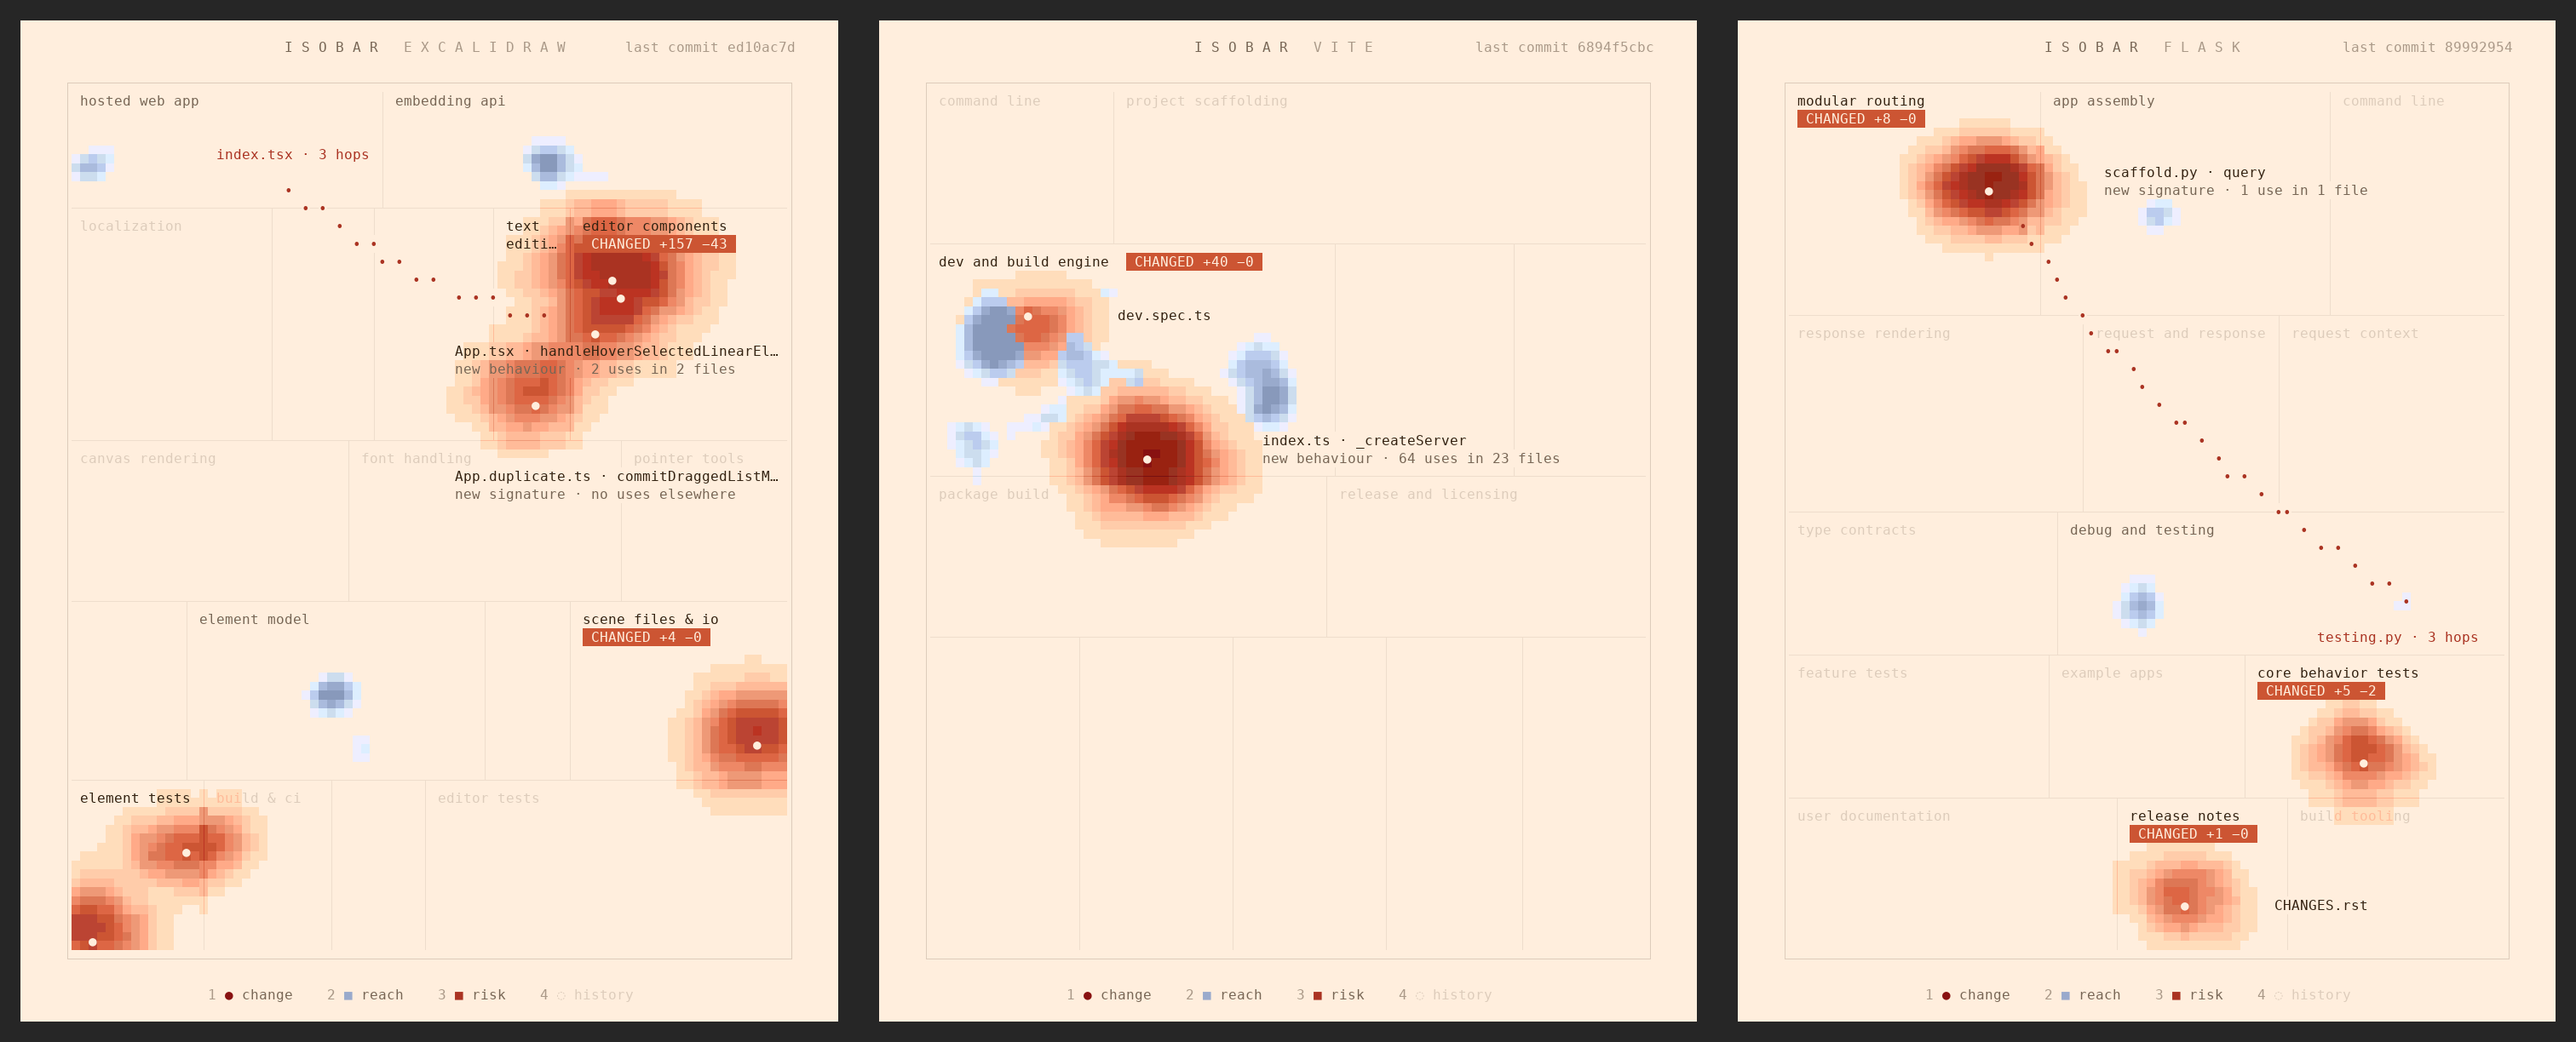
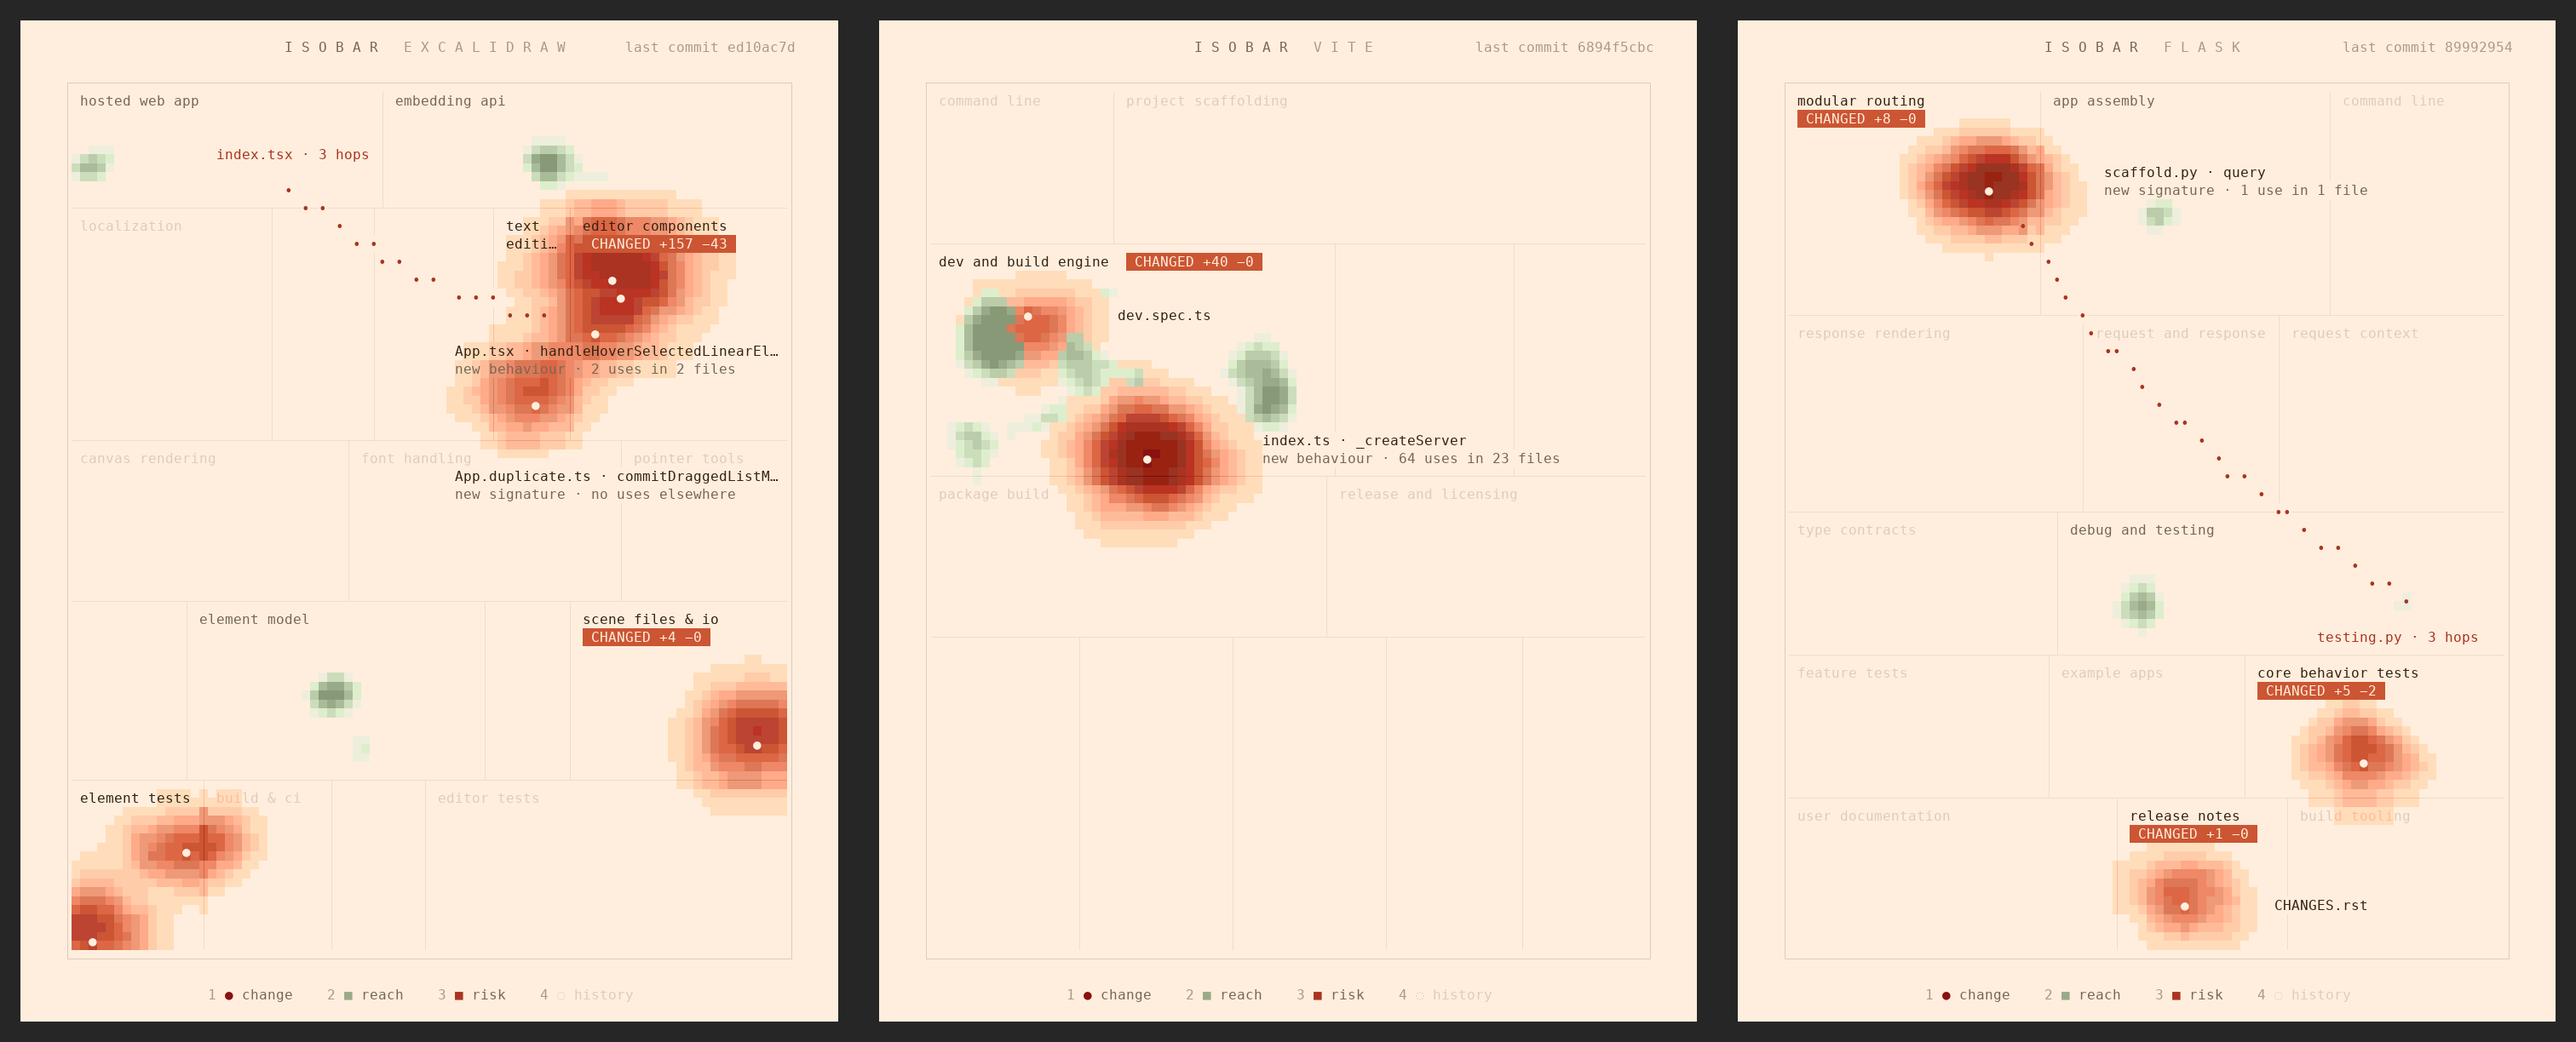
Rain in a radar's green, grounded to sage; a weather map for every change
The reach falls in sage green, as light rain shows on a weather radar beside the
change's red storm, with night and 256-colour greens. The README, plugin and
social preview now name the analogy. Images re-shot from the same sources.

diff --git a/hooks/render/palette.ts b/hooks/render/palette.ts
@@ -3,8 +3,9 @@
  * (each channel a multiple of 0x11), so each set is chosen on that grid: a colour
  * off it would be snapped channel by channel and drift in hue. The radar ramps walk
  * that grid in OKLab steps of 0.03 to 0.06, lightness always moving one way, so
- * no band jumps against its neighbour. The change burns in one hue and its reach rains in
- * another, slate blue, so what changed and what it touches read apart at a glance.
+ * no band jumps against its neighbour. As on a weather radar, the change storms red and its
+ * reach falls as green rain, here a sage that sits with the sepia inks, so what changed and
+ * what it touches read apart at a glance.
  *
  * Where Claude Code paints 256 colours (inside tmux, or where COLORTERM never says
  * truecolor) it moves each colour onto xterm's palette, and the cream paper lands on
@@ -59,9 +60,10 @@ export type Inks = {
 
 const paperRadar = [0xffeedd, 0xffddbb, 0xffccaa, 0xffbb99, 0xffaa88, 0xee9977, 0xee8866, 0xdd7755, 0xdd6644, 0xcc5533, 0xbb4433, 0xbb3322, 0xaa3322, 0x993322, 0x992211, 0x881111, 0x771111]
 const nightRadar = [0x111111, 0x221111, 0x331111, 0x441111, 0x552211, 0x662211, 0x884422, 0x995522, 0xaa5522, 0xbb6633, 0xcc7733, 0xdd8844, 0xee9955, 0xffaa66, 0xffbb77, 0xffcc88, 0xffddaa]
-// the reach's rain: slate blue, a step lighter than the storm bin for bin, so the change stays the loudest thing on the map
-const paperRain = [0xffeedd, 0xeeeeff, 0xddeeff, 0xccddee, 0xbbccee, 0xaabbdd, 0x99aacc, 0x8899bb, 0x7788aa, 0x667799, 0x556688, 0x445577, 0x334466, 0x223355, 0x112244, 0x112233, 0x001122]
-const nightRain = [0x111111, 0x111122, 0x112233, 0x223344, 0x223355, 0x334466, 0x335577, 0x446688, 0x557799, 0x6688aa, 0x7799bb, 0x88aacc, 0x99bbdd, 0xaaccee, 0xbbddee, 0xccddff, 0xddeeff]
+// the reach's rain: a radar's green, grounded to sage, a step lighter than the storm bin for bin, so the change stays the
+// loudest thing on the map
+const paperRain = [0xffeedd, 0xeeeedd, 0xddeecc, 0xccddbb, 0xbbccaa, 0xaabb99, 0x99aa88, 0x889977, 0x778866, 0x667755, 0x556644, 0x445533, 0x334422, 0x223311, 0x112211, 0x112200, 0x001100]
+const nightRain = [0x111111, 0x112211, 0x222211, 0x223311, 0x334422, 0x445533, 0x556644, 0x667755, 0x778866, 0x889977, 0x99aa88, 0xaabb99, 0xbbccaa, 0xccddbb, 0xddeecc, 0xeeeedd, 0xeeffee]
 
 /**
  * Each bin's hairline: two bins on, the dry ground's a neutral step off it. A 256 ramp repeats
@@ -197,9 +199,9 @@ const rampOf = (indices: readonly number[]) => indices.map((i, k) => xterm(i, in
 const paperRadar256 = rampOf([231, 223, 223, 216, 216, 173, 173, 173, 167, 167, 167, 88, 88, 88, 88, 52, 52])
 /** Near-black with the weather burning up through red and amber: the night chart in xterm's colours. */
 const nightRadar256 = rampOf([233, 52, 52, 52, 88, 88, 88, 131, 131, 173, 173, 180, 180, 216, 216, 223, 223])
-/** The reach's slate rain in xterm's colours, on each ground. */
-const paperRain256 = rampOf([231, 189, 189, 153, 153, 146, 110, 110, 67, 67, 61, 61, 24, 24, 17, 17, 17])
-const nightRain256 = rampOf([233, 19, 19, 24, 24, 24, 60, 61, 61, 67, 67, 104, 110, 110, 146, 153, 189])
+/** The reach's sage rain in xterm's colours, on each ground. */
+const paperRain256 = rampOf([231, 194, 194, 151, 151, 108, 107, 107, 101, 101, 65, 64, 64, 58, 58, 22, 22])
+const nightRain256 = rampOf([233, 22, 22, 22, 58, 58, 65, 101, 101, 107, 107, 108, 151, 151, 194, 194, 194])
 
 export const PAPER_INKS_256: Inks = {
   paper: paperRadar256[0]!,

diff --git a/tests/engine.test.ts b/tests/engine.test.ts
@@ -308,7 +308,7 @@ describe('basemap and weather', () => {
     }
   })
 
-  test('the change burns red and its reach rains slate blue', () => {
+  test('the change storms red and its reach rains green', () => {
     const w = weatherOf(map, FACTS, { kind: 'uncommitted', label: 'uncommitted' }, [{ path: 'src/util.ts', added: 5, deleted: 1, isNew: false, isDeleted: false }])
     const grid = sheetOf({ repo: 'demo', map, files: [...FACTS.lines.keys()], lines: FACTS.lines, weather: w, layers: ALL_LAYERS }, 95, 60)
     const painted = new Set(grid.cells.flatMap(c => [c.fg, c.bg]))

diff --git a/README.md b/README.md
@@ -4,9 +4,9 @@
 ![Claude Code mod](https://img.shields.io/badge/Claude%20Code-mod-d97757.svg)
 [![CI](https://github.com/r3al1tym/isobar/actions/workflows/ci.yml/badge.svg)](https://github.com/r3al1tym/isobar/actions/workflows/ci.yml)
 
-> **Ask for something big, then see at a glance what it changed across your product: where it landed, what it did there, and what else it reaches, on a map of your repo that never moves.**
+> **A weather map for every change your agent makes. Ask for something big, then see at a glance where it landed across your product, what it did there, and what else it reaches, on a map of your repo that never moves.**
 
-isobar is a [Claude Code](https://claude.com/claude-code) mod that docks a pane beside the conversation and draws the session's change as weather over a fixed map of your repository. Ask for something high-level and the pane shows which parts of the product the work touched, captions what it did in each, and rains on the code that uses it. You understand a complex change before you read its diff, and a part you did not expect it to reach stands out at once. Across 300 recent commits in six public repositories, the median commit rains on 0 to 12 files, against 59 to 352 when every importer is marked, and still reaches 87 to 98 percent of the files a language server says use the change.
+isobar is a [Claude Code](https://claude.com/claude-code) mod that docks a pane beside the conversation and draws the session's change as weather over a fixed map of your repository. You read it as you read a weather radar: a red storm where Claude edited, green rain over the code that uses what changed. Ask for something high-level and the pane shows which parts of the product the work touched, captions what it did in each, and rains on the code that uses it. You understand a complex change before you read its diff, and a part you did not expect it to reach stands out at once. Across 300 recent commits in six public repositories, the median commit rains on 0 to 12 files, against 59 to 352 when every importer is marked, and still reaches 87 to 98 percent of the files a language server says use the change.
 
 ![Claude Code with the isobar pane docked on the right. Over two turns in Flask, Claude changed get_debug_flag in helpers.py and added a CHANGES.rst entry, then changed Flask.make_response in app.py. The latest edit burns brightest, its note reads new behaviour · 11 uses in 3 files, and a dotted track runs to test_basic.py two hops away. The first turn's edits have faded, and CHANGES.rst carries UNASKED because no request mentioned the changelog](docs/pane.png)
 
@@ -14,7 +14,7 @@ isobar is a [Claude Code](https://claude.com/claude-code) mod that docks a pane 
 
 - **Where the change landed.** A storm on each file Claude edited, in its region of the map. You see at a glance whether the work landed where you expected.
 - **What it did there.** Once a turn ends, a small model reads the diff of each changed region and captions it under the region's name in a few words, such as `warns on slow requests` or `covers slow warnings`. The caption is the diff's own account, written without your requests, so you can set it against what you meant.
-- **What it reaches.** Slate-blue rain on the files that use what changed, apart from the change's red storm. isobar reads each edit declaration by declaration: a new signature or a new behaviour rains on the files that name it, and an edit to comments or imports stays dry. The note beside the edit says how far it reaches, as in `new behaviour · 11 uses in 3 files`.
+- **What it reaches.** Green rain on the files that use what changed, as light rain shows on a radar, apart from the change's red storm. isobar reads each edit declaration by declaration: a new signature or a new behaviour rains on the files that name it, and an edit to comments or imports stays dry. The note beside the edit says how far it reaches, as in `new behaviour · 11 uses in 3 files`.
 - **This turn against the session.** The latest turn's edits burn brightest and earlier turns fade, so a long session still reads in one look.
 - **What you never asked for.** Turn on the scope check and, after each turn, a small model compares your requests with the turn's diff. An edit nobody asked for carries `UNASKED` and a few words on what it did.
 - **The same frame every time.** Each repository is cut into named regions once and kept. Every change lands on the same map, so after a few sessions you read a change by its shape, the way you read a weather chart of your own country.
@@ -45,7 +45,7 @@ For one session only: `claude --plugin-dir ~/src/isobar`.
 - **Caption.** Under a changed region's name, what the change does there, from the gist.
 - **Badges.** The region's name carries `CHANGED +a −d`, `NO TESTS` when source code changed what it does and no test moved with it (a changed test counts when it imports the file, shares its name, or its new lines name what the edit touched or introduced, such as a new config key), `UNASKED` when the scope check flagged an edit, and `EXPECTED` on a region history says should have changed.
 - **Note.** The edited file and the declaration it touched, then how it reaches: `new signature` or `new behaviour` with its uses, `comments only`, or, for a file isobar reads whole, how many files depend on it.
-- **Rain.** The files that use what changed, in slate blue, fading with import distance.
+- **Rain.** The files that use what changed, in sage green, fading with import distance.
 - **Track.** The farthest file the change reaches, along its real import chain, labelled `file · N hops`. A file is named by as much of its path as tells it apart from the others on the pane: `sansio/app.py` beside `flask/app.py`.
 - **Title.** The repository, and how many files the latest turn changed against the rest of the session.
 
@@ -93,7 +93,7 @@ To give a team one shared map, commit it as `.isobar/map.json`; from a clone of 
 6. **The gist.** When a turn ends, one call to `smallModel` carries each changed region's name and blurb, its files with their line counts and touched declarations, and their diff, capped at 400 lines shared across the files. It asks for a caption of 2 to 4 words per region. Your requests stay out of it. A caption holds until its region's change changes; while a turn runs, the last caption stays.
 7. **The scope check** (opt-in). When a turn ends, one call to `smallModel` carries your last four requests and the turn's diff, capped at 400 lines, and asks which changes no request called for. A flag holds until the file changes again.
 8. **The map.** Once per repository, isobar cuts the tree into about 160 units (big source folders opened to their files, the rest taken a folder at a time) and asks the session's model to group them into at most 20 regions in 3 to 6 bands, from where work enters down to the foundations. Every file lands in exactly one region; when the model's answer is unusable, the folders themselves become the regions. A region's area is its lines of code times how much of the rest depends on it. The map is kept in Claude Code's plugin store, and new files join the region their imports point to, so the frame never grows or moves.
-9. **The picture.** The storm and the rain are density fields over the map's layout, binned into 17 colour steps that move evenly in a perceptual colour space: the storm in reds, the rain in slate blues wherever it outweighs a storm. They are drawn in half-block cells as one Raster.
+9. **The picture.** The storm and the rain are density fields over the map's layout, binned into 17 colour steps that move evenly in a perceptual colour space: the storm in reds, the rain in sage greens wherever it outweighs a storm, as a radar colours storm and rain. They are drawn in half-block cells as one Raster.
 
 Refreshes run 500 ms after Claude's last tool call, one at a time.
 

diff --git a/docs/design.md b/docs/design.md
@@ -1,6 +1,6 @@
 # Design notes
 
-isobar treats a session's change as weather over a map that never moves. The storm sits where Claude edited in red, its rain falls in slate blue on the code that uses what changed, the latest turn shows brightest, and a badge marks an edit nobody asked for. The map is the same every time you look, so after a few changes you read it by shape, the way you read a weather chart of your own country.
+isobar treats a session's change as weather over a map that never moves. The storm sits where Claude edited in red, its rain falls in green on the code that uses what changed, as a radar shows storm and rain, the latest turn shows brightest, and a badge marks an edit nobody asked for. The map is the same every time you look, so after a few changes you read it by shape, the way you read a weather chart of your own country.
 
 ## Who it is for
 
@@ -25,7 +25,7 @@ Each layer is a fact or a forecast, and the picture keeps the two apart.
 
 ## Why a printed chart
 
-The terminal is treated as a print medium: a cartographic sheet set in half-block cells. The weather ramps step evenly in a perceptual colour space, so no band jumps against its neighbour. The change and its reach take two hues, red and slate blue, so the two read apart without a legend. Words are kept to what the map cannot say by itself, and each one sits on what it describes. The chart is printed on warm paper by default; in 256-colour terminals it moves to white paper with xterm's own colours, since the cream has no 256-colour equivalent.
+The terminal is treated as a print medium: a cartographic sheet set in half-block cells. The weather ramps step evenly in a perceptual colour space, so no band jumps against its neighbour. The change and its reach take a radar's two hues, red and green, the green grounded to a sage that sits with the sepia inks, so the two read apart without a legend. Words are kept to what the map cannot say by itself, and each one sits on what it describes. The chart is printed on warm paper by default; in 256-colour terminals it moves to white paper with xterm's own colours, since the cream has no 256-colour equivalent.
 
 ## Where it came from
 

diff --git a/CHANGELOG.md b/CHANGELOG.md
@@ -10,7 +10,7 @@ All notable changes to this project are documented here. The format is based on
 - **The gist** (`gist`, on by default). Once a turn that changes files ends, `smallModel` reads each changed region's diff and captions what the change does there in a few words, under the region's name. It never sees your requests, so the caption is the diff's own account.
 
 ### Changed
-- **Two hues.** The reach rains in slate blue, apart from the change's red storm, so what changed and what it touches read apart at a glance. Night and 256-colour terminals get their own slate ramps.
+- **Two hues, as on a radar.** The reach rains sage green, apart from the change's red storm, so what changed and what it touches read apart at a glance. Night and 256-colour terminals get their own green ramps.
 - **`scopeModel` is now `smallModel`**, shared by the gist and the scope check, and defaults to `sonnet`.
 - **`NO TESTS` reads the test.** A changed test now covers an edit when its new lines name what the edit touched or a name the edit introduced (a new config key, a new helper), as well as when it imports the file or shares its name.
 - **Labels tell files apart.** A note or the track names a file by as much of its path as tells it from the others on the pane, such as `sansio/app.py` beside `flask/app.py`.
